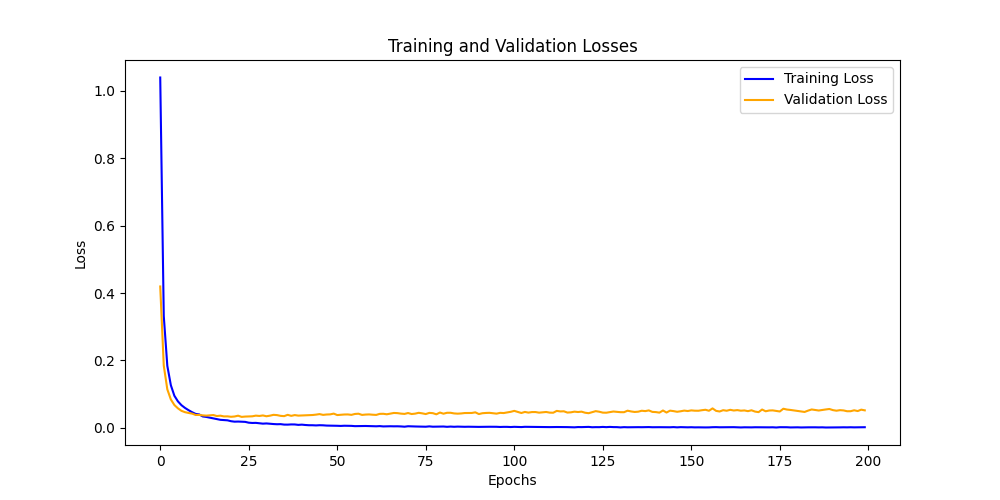
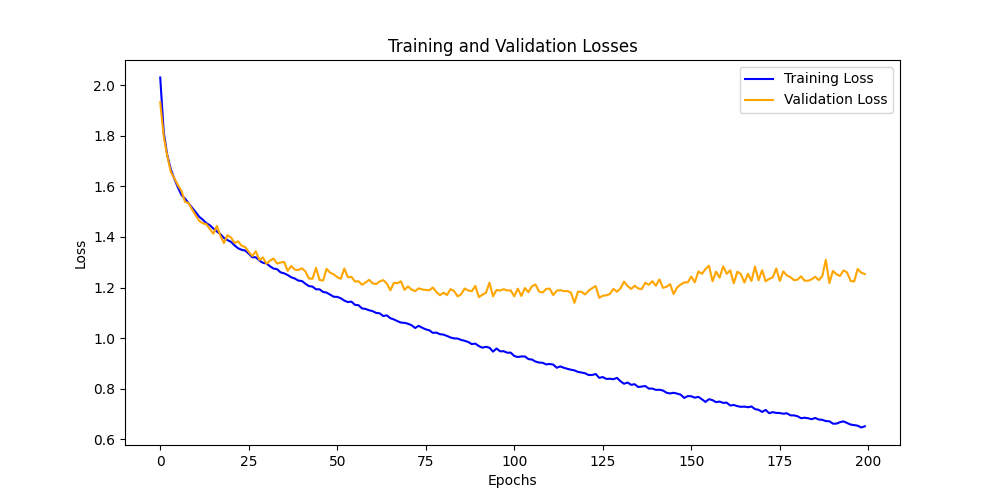
200 epoch run

diff --git a/mlp_MNIST_2hidden.py b/mlp_MNIST_2hidden.py
@@ -41,7 +41,7 @@ class Classifier:
 
         self.n_epochs = n_epochs
         self.init_lr = init_lr
-        self.img_res = 28 * 28 * 1      #eigentlich 32x32x3 aber es wird ein 28 Cropped Bild genommen
+        self.img_res = 28 * 28 * 1     
         self.num_classes = 10
 
 
@@ -56,12 +56,12 @@ class Classifier:
 
 
 
-        self.train_dataset = torchvision.datasets.CIFAR10(root='./data',
+        self.train_dataset = torchvision.datasets.MNIST(root='./data',
                                 train=True,
                                 download=True,
                                 transform=transform)
 
-        self.test_dataset = torchvision.datasets.CIFAR10(root='./data',
+        self.test_dataset = torchvision.datasets.MNIST(root='./data',
                             train=False,
                             download=True,
                             transform=transform)
@@ -239,8 +239,7 @@ class Classifier:
 
 
 def main():
-    n_epochs = 20
-    save = False
+    n_epochs = 200
     log_interval = 10
     init_lr = 0.0001
     cl = Classifier(n_epochs, init_lr)
@@ -255,7 +254,7 @@ def main():
     cl.test()
     cl.plot_confMatrix()
 
-    cl.saveModelWheights()
+    cl.saveModelWeights(n_epochs)
 
 if __name__ == '__main__':
     main()

diff --git a/cnn_CIFAR10_complex.py b/cnn_CIFAR10_complex.py
@@ -52,7 +52,7 @@ class CNN_CIFAR_COMPLEX(nn.Module):     #VGG architecture
             nn.ReLU(inplace=True),
             nn.Conv2d(512, 512, kernel_size=3, padding=1),
             nn.ReLU(inplace=True),
-            nn.MaxPool2d(kernel_size=2, stride=2),
+           #nn.MaxPool2d(kernel_size=2, stride=2),
         )
 
         self.classifier = nn.Sequential(
@@ -275,7 +275,7 @@ class CNN_CIFAR_Classifier:
 
 
 def main():
-    n_epochs = 50
+    n_epochs = 200
     log_interval = 10
     init_lr = 0.0001
     cl = CNN_CIFAR_Classifier(n_epochs, init_lr)
@@ -290,7 +290,7 @@ def main():
     cl.test()
     cl.plot_confMatrix()
 
-    cl.saveModelWheights()
+    cl.saveModelWeights(n_epochs)
 
 if __name__ == '__main__':
     main()

diff --git a/mlp_cifar_moreLayers.py b/mlp_cifar_moreLayers.py
@@ -270,8 +270,7 @@ class Classifier:
 
 
 def main():
-    n_epochs = 10
-    save = False
+    n_epochs = 200
     log_interval = 10
     init_lr = 0.0001
     cl = Classifier(n_epochs, init_lr)
@@ -286,7 +285,7 @@ def main():
     cl.test()
     cl.plot_confMatrix()
 
-    cl.saveModelWheights()
+    cl.saveModelWeights(n_epochs)
 
 if __name__ == '__main__':
     main()

diff --git a/mlp_cifar_2hiddenLayers.py b/mlp_cifar_2hiddenLayers.py
@@ -241,7 +241,6 @@ class Classifier:
 
 def main():
     n_epochs = 200
-    save = False
     log_interval = 10
     init_lr = 0.0001
     cl = Classifier(n_epochs, init_lr)
@@ -256,7 +255,7 @@ def main():
     cl.test()
     cl.plot_confMatrix()
 
-    cl.saveModelWheights()
+    cl.saveModelWeights(n_epochs)
 
 if __name__ == '__main__':
     main()
